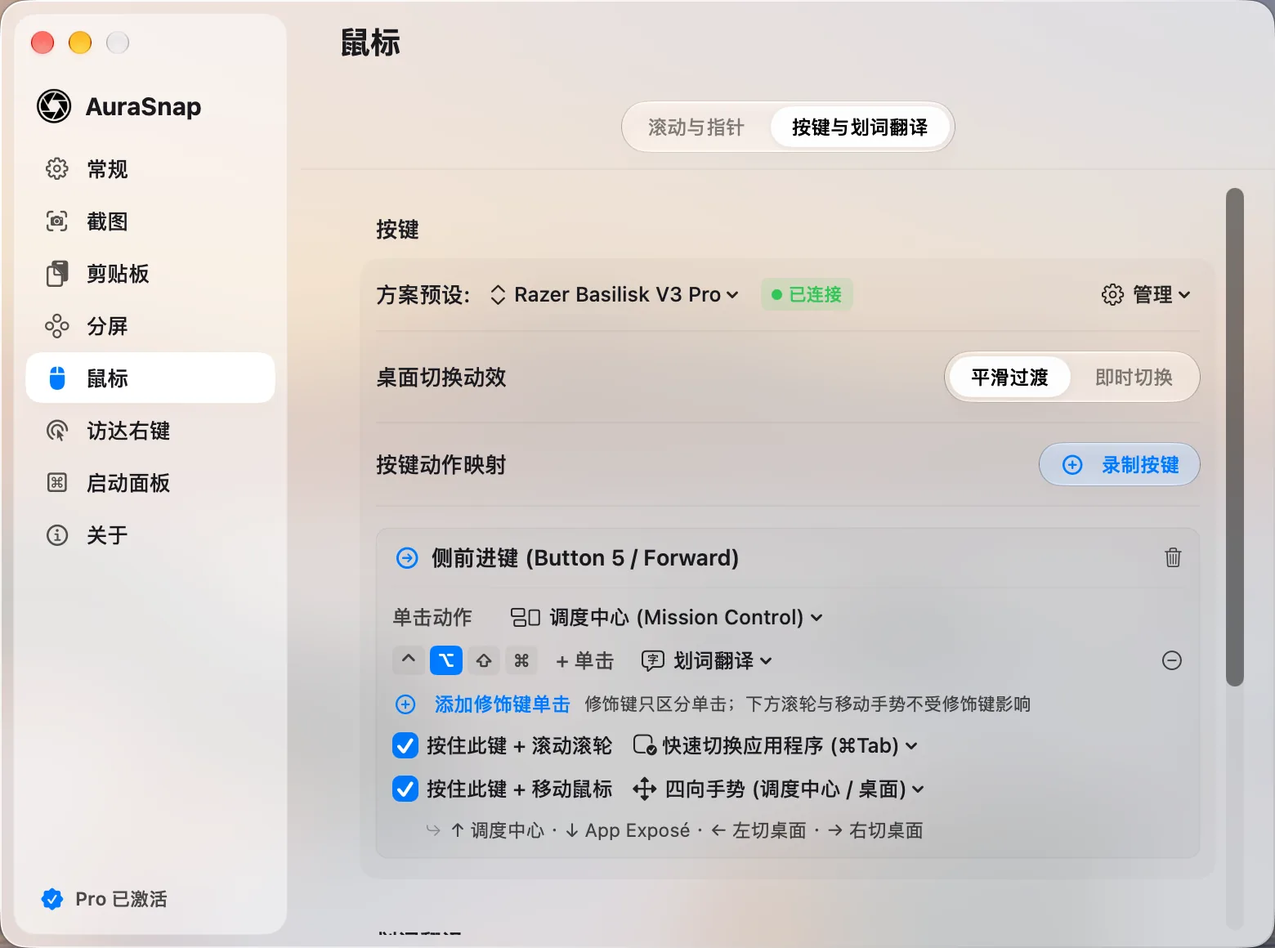
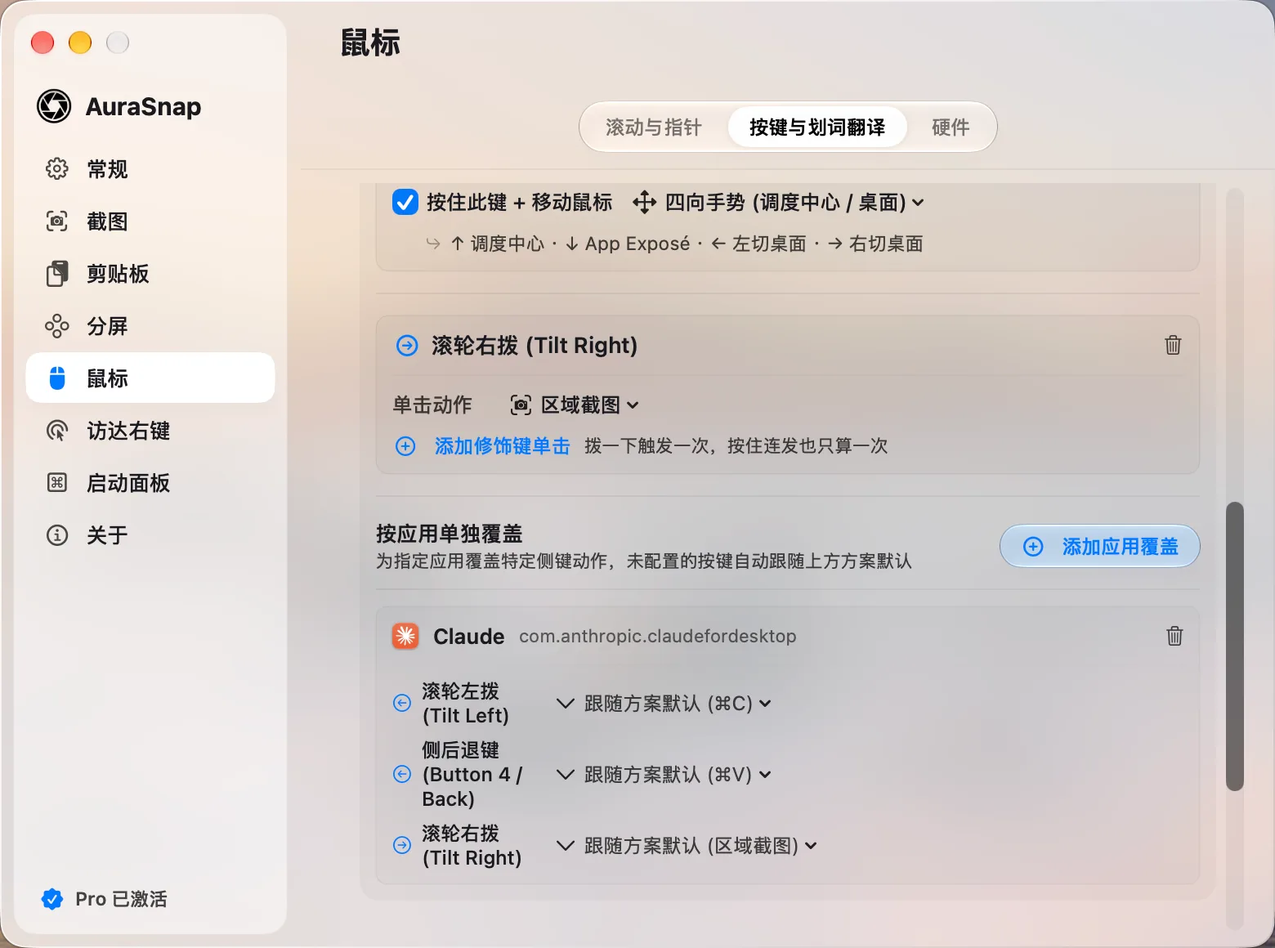
docs(website): 版本号更新到 v3.2.128，补三分屏与跨屏、剪贴板片段与横条面板、鼠标按应用覆盖、像素标尺、录屏运镜与摄像头，新增真实截图

diff --git a/index.html b/index.html
@@ -115,12 +115,12 @@
   <section class="hero">
     <div class="wrap">
       <a class="hero-pill" href="https://github.com/8wcznkmy6b-del/AuraSnap-PB/releases/latest" target="_blank" rel="noopener">
-        <b data-version>v3.2.114</b><span>截图便利贴、双击修饰键快捷键、放大视图拖出截图</span><svg class="i"><use href="/assets/icons.svg#chevron"/></svg>
+        <b data-version>v3.2.128</b><span>三分屏与跨屏移动、剪贴板片段与横条面板、鼠标按应用映射、录屏摄像头</span><svg class="i"><use href="/assets/icons.svg#chevron"/></svg>
       </a>
       <h1 class="title-xl"><span class="nw">截图、剪贴板、分屏</span><br><span class="grad-text nw">一个应用就够了</span></h1>
       <p class="lead">AuraSnap 是为 Mac 编写的原生效率工具：截图标注、文字识别与翻译、长截图、录屏，再加上剪贴板历史、窗口分屏、鼠标增强和访达右键。常驻菜单栏，按快捷键随叫随到。</p>
       <div class="btn-row">
-        <a class="btn btn-primary" href="https://github.com/8wcznkmy6b-del/AuraSnap-PB/releases/download/v3.2.114/AuraSnap-3.2.114.dmg" data-dmg><svg class="i"><use href="/assets/icons.svg#apple"/></svg>免费下载</a>
+        <a class="btn btn-primary" href="https://github.com/8wcznkmy6b-del/AuraSnap-PB/releases/download/v3.2.128/AuraSnap-3.2.128.dmg" data-dmg><svg class="i"><use href="/assets/icons.svg#apple"/></svg>免费下载</a>
         <a class="btn btn-ghost" href="/pricing">查看价格</a>
       </div>
       <div class="hero-meta">
@@ -170,14 +170,15 @@
           <li><svg class="i"><use href="/assets/icons.svg#check"/></svg><span><b>选区更准</b>：空格切换整窗 / 元素，滚轮切层级，方向键逐像素微调。</span></li>
           <li><svg class="i"><use href="/assets/icons.svg#check"/></svg><span><b>工具齐全</b>：矩形、箭头、画笔、文字、马赛克、序号、批注、贴纸、聚光灯、放大镜、水印、智能消除。</span></li>
           <li><svg class="i"><use href="/assets/icons.svg#check"/></svg><span><b>随时修改</b>：单击选中已有标注，拖动移动，滚动滚轮调大小、粗细或倍率；单击选中的批注就能接着改字，长文直接粘贴，文字框自动适应画布。</span></li>
+          <li><svg class="i"><use href="/assets/icons.svg#check"/></svg><span><b>像素标尺</b>：截图时按 <kbd>X</kbd>，光标处向四周扫到颜色边缘，量出横竖距离；按住拖动可量矩形宽高。框选时左上角还会实时显示导出图片的像素宽高。</span></li>
           <li><svg class="i"><use href="/assets/icons.svg#check"/></svg><span><b>工具栏自己排</b>：拖动排序、合并成组，截图和贴图编辑共用一份排列。</span></li>
           <li><svg class="i"><use href="/assets/icons.svg#check"/></svg><span><b>截完怎么用都行</b>：复制、保存、贴在桌面置顶、隔空投送、上传图床，或加上背景再分享；也可以让截图<a href="#sticky">贴成便利贴</a>藏在屏幕边上。</span></li>
         </ul>
-        <div class="chips"><span class="chip">延时截图</span><span class="chip">截图直接复制</span><span class="chip">屏幕取色</span><span class="chip">贴图穿透</span><span class="chip">抠图</span><span class="chip chip-pro">背景美化 · Pro</span><span class="chip chip-pro">一键隐私打码 · Pro</span></div>
+        <div class="chips"><span class="chip">延时截图</span><span class="chip">截图直接复制</span><span class="chip">屏幕取色</span><span class="chip">截图时隐藏桌面图标</span><span class="chip">贴图穿透</span><span class="chip">抠图</span><span class="chip chip-pro">背景美化 · Pro</span><span class="chip chip-pro">一键隐私打码 · Pro</span></div>
       </div>
       <div class="shot-tabs reveal" data-tabs>
-        <div class="tab-row" role="tablist"><button type="button" role="tab" aria-selected="true" data-tab="0">放大镜</button><button type="button" role="tab" aria-selected="false" data-tab="1">样式调节</button><button type="button" role="tab" aria-selected="false" data-tab="2">弯曲箭头</button><button type="button" role="tab" aria-selected="false" data-tab="3">工具分组</button><button type="button" role="tab" aria-selected="false" data-tab="4">截完怎么用</button></div>
-        <figure class="shot" data-panel="0"><img src="/assets/shots/magnifier.webp" alt="放大镜标注：原区域与放大视图之间带连接线，下拉菜单可选形状与放大方式" width="1564" height="1144" loading="lazy" decoding="async"><figcaption>放大镜：拖开放大视图，滚轮调倍率，放大视图还能拖到截图外面，导出时画布自动扩大；可选圆形或圆角矩形、平滑或像素放大。</figcaption></figure><figure class="shot" data-panel="1" hidden><img src="/assets/shots/rect-style.webp" alt="选中矩形后，上方出现颜色、线型、圆角与粗细调节条" width="1292" height="792" loading="lazy" decoding="async"><figcaption>选中任意标注，上方直接出现它的颜色、线型和粗细，改完即生效。</figcaption></figure><figure class="shot" data-panel="2" hidden><img src="/assets/shots/arrow-ai.webp" alt="可拖成弧线的箭头，选中后显示旋转与删除按钮" width="1354" height="792" loading="lazy" decoding="async"><figcaption>箭头拖中间手柄就能弯成弧线；下方是 AI 指令条（Pro，需自备 Key）。</figcaption></figure><figure class="shot" data-panel="3" hidden><img src="/assets/shots/text-group.webp" alt="文本、序号、批注、贴纸、水印合为一组，展开时显示工具名和单键" width="1336" height="816" loading="lazy" decoding="async"><figcaption>多个工具合成一格，悬停右下角小三角就展开，每个工具旁标着单键。</figcaption></figure><figure class="shot" data-panel="4" hidden><img src="/assets/shots/save-group.webp" alt="保存分组展开：保存、上传图床、隔空投送" width="1330" height="778" loading="lazy" decoding="async"><figcaption>保存、上传图床、隔空投送收在一组，⌘S / ⌘U / ⌘D 直接触发。</figcaption></figure>
+        <div class="tab-row" role="tablist"><button type="button" role="tab" aria-selected="true" data-tab="0">放大镜</button><button type="button" role="tab" aria-selected="false" data-tab="1">样式调节</button><button type="button" role="tab" aria-selected="false" data-tab="2">弯曲箭头</button><button type="button" role="tab" aria-selected="false" data-tab="3">工具分组</button><button type="button" role="tab" aria-selected="false" data-tab="4">截完怎么用</button><button type="button" role="tab" aria-selected="false" data-tab="5">像素标尺</button></div>
+        <figure class="shot" data-panel="0"><img src="/assets/shots/magnifier.webp" alt="放大镜标注：原区域与放大视图之间带连接线，下拉菜单可选形状与放大方式" width="1564" height="1144" loading="lazy" decoding="async"><figcaption>放大镜：拖开放大视图，滚轮调倍率，放大视图还能拖到截图外面，导出时画布自动扩大；可选圆形或圆角矩形、平滑或像素放大。</figcaption></figure><figure class="shot" data-panel="1" hidden><img src="/assets/shots/rect-style.webp" alt="选中矩形后，上方出现颜色、线型、圆角与粗细调节条" width="1292" height="792" loading="lazy" decoding="async"><figcaption>选中任意标注，上方直接出现它的颜色、线型和粗细，改完即生效。</figcaption></figure><figure class="shot" data-panel="2" hidden><img src="/assets/shots/arrow-ai.webp" alt="可拖成弧线的箭头，选中后显示旋转与删除按钮" width="1354" height="792" loading="lazy" decoding="async"><figcaption>箭头拖中间手柄就能弯成弧线；下方是 AI 指令条（Pro，需自备 Key）。</figcaption></figure><figure class="shot" data-panel="3" hidden><img src="/assets/shots/text-group.webp" alt="文本、序号、批注、贴纸、水印合为一组，展开时显示工具名和单键" width="1336" height="816" loading="lazy" decoding="async"><figcaption>多个工具合成一格，悬停右下角小三角就展开，每个工具旁标着单键。</figcaption></figure><figure class="shot" data-panel="4" hidden><img src="/assets/shots/save-group.webp" alt="保存分组展开：保存、上传图床、隔空投送" width="1330" height="778" loading="lazy" decoding="async"><figcaption>保存、上传图床、隔空投送收在一组，⌘S / ⌘U / ⌘D 直接触发。</figcaption></figure><figure class="shot" data-panel="5" hidden><img src="/assets/shots/capture-ruler.webp" alt="像素标尺：光标处向四周扫到颜色边缘，横向与竖向两段距离分别标注在各自的线旁" width="1600" height="1061" loading="lazy" decoding="async"><figcaption>截图时按 X：光标处向四周扫到颜色边缘，横、竖两段距离标在各自的线旁；按住拖动可以量矩形的宽高。</figcaption></figure>
       </div>
     </div>
 
@@ -261,10 +262,12 @@
         <p class="lead">选一块区域就开录。点击会有涟漪，按键会显示在角落，观众一眼看懂你在做什么。</p>
         <ul class="bullets">
           <li><svg class="i"><use href="/assets/icons.svg#check"/></svg><span><b>原画 60 帧</b>，按屏幕实际像素采集，可同时录系统声音和麦克风。</span></li>
+          <li><svg class="i"><use href="/assets/icons.svg#check"/></svg><span><b>自动运镜</b>：开启后画面跟着点击和打字自动推近，像 Screen Studio 一样；录完可在编辑器里拖框改取景、调强度。</span></li>
+          <li><svg class="i"><use href="/assets/icons.svg#check"/></svg><span><b>摄像头画中画</b>：可叠加圆形或圆角矩形的摄像头画面，大小三档、可拖动，只在录屏期间开着。</span></li>
           <li><svg class="i"><use href="/assets/icons.svg#check"/></svg><span><b>录完就剪</b>：预览里拖动首尾剪掉多余片段，导出 MP4、WebM 或 GIF。</span></li>
           <li><svg class="i"><use href="/assets/icons.svg#check"/></svg><span><b>直接发出去</b>：复制后能粘贴到微信、访达；也可以按住 ⌘ 把视频拖进任意窗口。</span></li>
         </ul>
-        <div class="chips"><span class="chip">免费版单次 15 秒 · GIF</span><span class="chip chip-pro">不限时长 · MP4 / WebM · Pro</span></div>
+        <div class="chips"><span class="chip">免费版单次 15 秒 · GIF</span><span class="chip chip-pro">不限时长 · MP4 / WebM · Pro</span><span class="chip chip-pro">导出运镜效果 · Pro</span></div>
       </div>
       <div class="stack reveal">
         <figure class="shot"><img src="/assets/shots/record-start.webp" alt="录屏开始前的控制条：系统声音、麦克风、点击效果、按键显示与开始录制" width="894" height="638" loading="lazy" decoding="async"></figure>
@@ -305,14 +308,18 @@
         <ul class="bullets">
           <li><svg class="i"><use href="/assets/icons.svg#check"/></svg><span><b>打字就搜</b>：截图里的文字也能搜到；按文本、图片、链接、颜色、文件分类，按来源应用筛选，还能加自己的标签。</span></li>
           <li><svg class="i"><use href="/assets/icons.svg#check"/></svg><span><b>文件也记得</b>：在访达里复制的文件只记位置，粘贴时放回原文件，也能直接粘贴路径。</span></li>
+          <li><svg class="i"><use href="/assets/icons.svg#check"/></svg><span><b>多选与逐条粘贴</b>：<kbd>⌘</kbd> 点击、<kbd>⇧</kbd> 点击多选，<kbd>↩</kbd> 按顺序逐条粘贴，<kbd>⇧</kbd><kbd>↩</kbd> 合并成一段；<kbd>⌘</kbd><kbd>1</kbd>–<kbd>9</kbd> 直接贴第几条。</span></li>
+          <li><svg class="i"><use href="/assets/icons.svg#check"/></svg><span><b>常用片段与「粘贴为…」</b>：存下常用话术，支持 {date}、{time} 占位符；右键可转大小写、JSON 格式化、URL / Base64 编解码后再粘贴。</span></li>
           <li><svg class="i"><use href="/assets/icons.svg#check"/></svg><span><b>悬停预览</b>：大图和长文本悬停即看，可以划选其中一段复制；任意条目一键变成桌面贴图。</span></li>
           <li><svg class="i"><use href="/assets/icons.svg#check"/></svg><span><b>不记敏感内容</b>：密码管理器等应用里复制的内容不记录，也可以自己指定忽略的应用。</span></li>
         </ul>
-        <div class="chips"><span class="chip">永久免费</span><span class="chip">数据只存在本机</span></div>
+        <div class="chips"><span class="chip">永久免费</span><span class="chip">数据只存在本机</span><span class="chip">屏幕底部 / 顶部横条面板</span></div>
       </div>
       <div class="reveal">
-        <figure class="shot"><img src="/assets/shots/clipboard-panel.webp" alt="剪贴板面板：顶部搜索与分类，左侧历史列表，右侧大图预览与识别文字按钮" width="1418" height="932" loading="lazy" decoding="async"></figure>
-        <p class="shot-cap">左边是历史，右边是悬停预览；图片可以直接「识别文字」。底部提示 ↩ 粘贴、↑↓ 选择、tab 切换分类。</p>
+        <div class="shot-tabs" data-tabs>
+          <div class="tab-row" role="tablist"><button type="button" role="tab" aria-selected="true" data-tab="0">卡片浮窗</button><button type="button" role="tab" aria-selected="false" data-tab="1">底部横条</button></div>
+          <figure class="shot" data-panel="0"><img src="/assets/shots/clipboard-panel.webp" alt="剪贴板面板：顶部搜索与分类，左侧历史列表，右侧大图预览与识别文字按钮" width="1418" height="932" loading="lazy" decoding="async"><figcaption>左边是历史，右边是悬停预览；图片可以直接「识别文字」。底部提示 ↩ 粘贴、↑↓ 选择、tab 切换分类。</figcaption></figure><figure class="shot" data-panel="1" hidden><img src="/assets/shots/clipboard-shelf.webp" alt="剪贴板底部横条面板：顶部搜索框、分类与标签，下方记录横排成卡片，多选的卡片带粘贴序号" width="1600" height="681" loading="lazy" decoding="async"><figcaption>设置里把面板布局改成屏幕底部或顶部横条：分类、片段与自定义标签平铺在顶部，记录横排成卡片；多选后卡片上的数字就是粘贴顺序。</figcaption></figure>
+        </div>
       </div>
     </div>
   </section>
@@ -326,6 +333,7 @@
         <p class="lead">按住鼠标中键或侧键往一个方向划，轮盘出现，松手窗口就吸附过去。习惯键盘的话，快捷键同样顺手。</p>
         <ul class="bullets">
           <li><svg class="i"><use href="/assets/icons.svg#check"/></svg><span><kbd>⌃</kbd><kbd>⌥</kbd> 加方向键吸附半屏，<kbd>↩</kbd> 最大化，<kbd>C</kbd> 居中，<kbd>⌫</kbd> 还原。</span></li>
+          <li><svg class="i"><use href="/assets/icons.svg#check"/></svg><span><b>三分屏与跨屏</b>：左 / 中 / 右 1/3、左 / 右 2/3（竖屏自动改上 / 中 / 下），还能一键把窗口移到下一块或上一块屏幕，并保持同样的位置；在「设置 › 分屏 › 快捷键」里录制按键。</span></li>
           <li><svg class="i"><use href="/assets/icons.svg#check"/></svg><span><b>多窗口联动</b>：一个窗口吸到一侧，同屏的其他窗口自动排好，填满剩下的空间（Pro）。</span></li>
           <li><svg class="i"><use href="/assets/icons.svg#check"/></svg><span><b>多屏与台前调度</b>：跨屏移动窗口，自动避开台前调度侧栏；窗口间距可调。</span></li>
         </ul>
@@ -374,6 +382,7 @@
       </div>
       <div class="spot-grid two">
         <div class="spot reveal"><svg class="i"><use href="/assets/icons.svg#mouse"/></svg><h3>鼠标增强</h3><p>普通滚轮像触控板一样顺滑，可反转方向、关闭指针加速。不同鼠标各存一套配置，插上自动切换；雷蛇和 MCHOSE 鼠标还能直接改 DPI 档位、轮询率和灯光，写进鼠标里。Pro 能把侧键、滚轮左右拨绑定到快捷键、截图、分屏或调度中心。</p></div>
+        <div class="spot reveal"><svg class="i"><use href="/assets/icons.svg#mouse"/></svg><h3>按应用设置鼠标</h3><p>每套方案可以给指定应用单独覆盖部分按键，切到该应用自动生效。设置按键时会就地检查冲突：和分屏触发键、全局快捷键或常见系统快捷键撞了会提示。指针加速度可选系统默认、线性或自定义曲线。</p></div>
         <div class="spot reveal"><svg class="i"><use href="/assets/icons.svg#cloud"/></svg><h3>图床上传</h3><p>支持 S3、R2、MinIO、阿里云 OSS、腾讯云 COS、七牛、B2、GitHub 和自定义接口。上传前可转 WebP，上传后自动复制 Markdown、URL 或 HTML 外链。</p></div>
         <div class="spot reveal"><svg class="i"><use href="/assets/icons.svg#eraser"/></svg><h3>智能消除与抠图</h3><p>抹掉画面里多余的东西，背景自动补齐；一键提取主体，去掉背景。</p></div>
         <div class="spot reveal"><svg class="i"><use href="/assets/icons.svg#eyedropper"/></svg><h3>屏幕取色</h3><p>截图时放大镜显示像素和色值，按 <kbd>C</kbd> 复制 HEX 或 RGB。</p></div>
@@ -391,7 +400,7 @@
       </div>
       <div class="shot-tabs reveal wide" data-tabs>
         <div class="tab-row" role="tablist"><button type="button" role="tab" aria-selected="true" data-tab="0">工具栏主题</button><button type="button" role="tab" aria-selected="false" data-tab="1">工具排列</button><button type="button" role="tab" aria-selected="false" data-tab="2">快捷键</button><button type="button" role="tab" aria-selected="false" data-tab="3">剪贴板</button><button type="button" role="tab" aria-selected="false" data-tab="4">分类与标签</button><button type="button" role="tab" aria-selected="false" data-tab="5">分屏轮盘</button><button type="button" role="tab" aria-selected="false" data-tab="6">分屏快捷键</button><button type="button" role="tab" aria-selected="false" data-tab="7">鼠标滚动</button><button type="button" role="tab" aria-selected="false" data-tab="8">鼠标按键</button><button type="button" role="tab" aria-selected="false" data-tab="9">访达右键</button><button type="button" role="tab" aria-selected="false" data-tab="10">外观</button><button type="button" role="tab" aria-selected="false" data-tab="11">运行状态</button><button type="button" role="tab" aria-selected="false" data-tab="12">常规</button><button type="button" role="tab" aria-selected="false" data-tab="13">翻译</button><button type="button" role="tab" aria-selected="false" data-tab="14">AI 助手</button><button type="button" role="tab" aria-selected="false" data-tab="15">图床</button></div>
-        <figure class="shot" data-panel="0"><img src="/assets/shots/set-toolbar-theme.webp" alt="设置：截图工具栏主题（黑曜晶透、磨砂玻璃、经典纯色）与图标大小" width="1560" height="1160" loading="lazy" decoding="async"><figcaption>三种工具栏主题，图标大小可调，分组展开时可显示工具名称。</figcaption></figure><figure class="shot" data-panel="1" hidden><img src="/assets/shots/set-toolbar-arrange.webp" alt="设置：工具排列，顶部预览可拖动排序与分组" width="1560" height="1160" loading="lazy" decoding="async"><figcaption>顶部预览直接拖动排序、合并分组；截图和贴图编辑共用一份排列。</figcaption></figure><figure class="shot" data-panel="2" hidden><img src="/assets/shots/set-shortcuts.webp" alt="设置：全局快捷键与标注单键" width="1560" height="1160" loading="lazy" decoding="async"><figcaption>全局快捷键与标注单键都在这里，支持单个按键（如 F1–F12），也可以设成连按两下 ⌘、⌥ 这类修饰键。</figcaption></figure><figure class="shot" data-panel="3" hidden><img src="/assets/shots/set-clipboard.webp" alt="设置：剪贴板通用选项" width="1560" height="1160" loading="lazy" decoding="async"><figcaption>回贴方式、使用过的记录移到最前、记录复制的文件、图片文字识别。</figcaption></figure><figure class="shot" data-panel="4" hidden><img src="/assets/shots/set-clipboard-tabs.webp" alt="设置：剪贴板分类栏排序与自定义标签" width="1560" height="1160" loading="lazy" decoding="async"><figcaption>分类栏可调顺序、改名、隐藏，⌘1–9 快速切换。</figcaption></figure><figure class="shot" data-panel="5" hidden><img src="/assets/shots/set-wheel.webp" alt="设置：分屏轮盘外观、材质与底色" width="1560" height="1160" loading="lazy" decoding="async"><figcaption>轮盘样式、液态玻璃材质、底色与透明度。</figcaption></figure><figure class="shot" data-panel="6" hidden><img src="/assets/shots/set-window-keys.webp" alt="设置：分屏快捷键，半屏、四角与还原" width="1560" height="1160" loading="lazy" decoding="async"><figcaption>半屏、四角 1/4 屏、居中、还原，按键都能改。</figcaption></figure><figure class="shot" data-panel="7" hidden><img src="/assets/shots/set-mouse-scroll.webp" alt="设置：鼠标平滑滚动、速度与修饰键滚动" width="1560" height="1160" loading="lazy" decoding="async"><figcaption>平滑度、滚动速度、修饰键横向滚动 / 缩放 / 变速，指定应用保持原生滚动。</figcaption></figure><figure class="shot" data-panel="8" hidden><img src="/assets/shots/set-mouse-buttons.webp" alt="设置：鼠标按键映射方案，按设备自动切换" width="1560" height="1160" loading="lazy" decoding="async"><figcaption>按鼠标型号保存方案；侧键单击、按住滚轮、按住移动各自绑定动作（Pro）。</figcaption></figure><figure class="shot" data-panel="9" hidden><img src="/assets/shots/set-finder.webp" alt="设置：访达右键功能模块开关" width="1560" height="1160" loading="lazy" decoding="async"><figcaption>右键菜单里每一项都能单独开关。</figcaption></figure><figure class="shot" data-panel="10" hidden><img src="/assets/shots/set-appearance.webp" alt="设置：设置面板主题与识别结果窗口主题" width="1560" height="1160" loading="lazy" decoding="async"><figcaption>设置面板有液态玻璃与经典纯色、深浅两种配色。</figcaption></figure><figure class="shot" data-panel="11" hidden><img src="/assets/shots/set-performance.webp" alt="设置：应用资源占用与模块运行状态" width="1560" height="1160" loading="lazy" decoding="async"><figcaption>实时查看 CPU、内存占用和各模块运行状态，用不到的模块可以停掉。</figcaption></figure><figure class="shot" data-panel="12" hidden><img src="/assets/shots/set-general.webp" alt="设置：常规，语言、开机自启、截图格式与保存路径（路径已打码）" width="1560" height="1160" loading="lazy" decoding="async"><figcaption>语言、开机自启、截图格式、保存与复制时附带窗口阴影、默认保存位置。</figcaption></figure><figure class="shot" data-panel="13" hidden><img src="/assets/shots/set-translate.webp" alt="设置：截图翻译模式与服务商（App ID 与密钥已打码）" width="1560" height="1160" loading="lazy" decoding="async"><figcaption>系统翻译与自定义 Key 两种模式；自备 Key 时选服务商并测试连接。</figcaption></figure><figure class="shot" data-panel="14" hidden><img src="/assets/shots/set-ai.webp" alt="设置：AI 助手服务商与 API 配置（密钥与地址已打码）" width="1560" height="1160" loading="lazy" decoding="async"><figcaption>AI 助手可接 OpenAI 兼容接口或本地 Ollama，自备 Key 即可免费使用。</figcaption></figure><figure class="shot" data-panel="15" hidden><img src="/assets/shots/set-imagehost.webp" alt="设置：图床服务商、链接格式与命名规则（账号已打码）" width="1560" height="1160" loading="lazy" decoding="async"><figcaption>选择存储服务、链接格式、命名规则与上传格式，可设为截图后自动上传。</figcaption></figure>
+        <figure class="shot" data-panel="0"><img src="/assets/shots/set-toolbar-theme.webp" alt="设置：截图工具栏主题（黑曜晶透、磨砂玻璃、经典纯色）与图标大小" width="1560" height="1160" loading="lazy" decoding="async"><figcaption>三种工具栏主题，图标大小可调，分组展开时可显示工具名称。</figcaption></figure><figure class="shot" data-panel="1" hidden><img src="/assets/shots/set-toolbar-arrange.webp" alt="设置：工具排列，顶部预览可拖动排序与分组" width="1560" height="1160" loading="lazy" decoding="async"><figcaption>顶部预览直接拖动排序、合并分组；截图和贴图编辑共用一份排列。</figcaption></figure><figure class="shot" data-panel="2" hidden><img src="/assets/shots/set-shortcuts.webp" alt="设置：全局快捷键与标注单键" width="1560" height="1160" loading="lazy" decoding="async"><figcaption>全局快捷键与标注单键都在这里，支持单个按键（如 F1–F12），也可以设成连按两下 ⌘、⌥ 这类修饰键。</figcaption></figure><figure class="shot" data-panel="3" hidden><img src="/assets/shots/set-clipboard.webp" alt="设置：剪贴板通用选项" width="1560" height="1160" loading="lazy" decoding="async"><figcaption>回贴方式、使用过的记录移到最前、记录复制的文件、图片文字识别。</figcaption></figure><figure class="shot" data-panel="4" hidden><img src="/assets/shots/set-clipboard-tabs.webp" alt="设置：剪贴板分类栏排序与自定义标签" width="1560" height="1160" loading="lazy" decoding="async"><figcaption>分类栏可调顺序、改名、隐藏，⌘1–9 快速切换。</figcaption></figure><figure class="shot" data-panel="5" hidden><img src="/assets/shots/set-wheel.webp" alt="设置：分屏轮盘外观、材质与底色" width="1560" height="1160" loading="lazy" decoding="async"><figcaption>轮盘样式、液态玻璃材质、底色与透明度。</figcaption></figure><figure class="shot" data-panel="6" hidden><img src="/assets/shots/set-window-keys.webp" alt="设置：分屏快捷键，三分屏与移到另一块屏幕，下方是手势速查" width="1560" height="1160" loading="lazy" decoding="async"><figcaption>左 / 中 / 右 1/3、左 / 右 2/3，以及移到上一块 / 下一块屏幕，按键自己录；半屏、四角、居中、还原也都能改。</figcaption></figure><figure class="shot" data-panel="7" hidden><img src="/assets/shots/set-mouse-scroll.webp" alt="设置：鼠标平滑滚动、速度与修饰键滚动" width="1560" height="1160" loading="lazy" decoding="async"><figcaption>平滑度、滚动速度、修饰键横向滚动 / 缩放 / 变速，指定应用保持原生滚动。</figcaption></figure><figure class="shot" data-panel="8" hidden><img src="/assets/shots/set-mouse-buttons.webp" alt="设置：鼠标按键映射，下方可以为指定应用单独覆盖按键" width="1560" height="1160" loading="lazy" decoding="async"><figcaption>按鼠标型号保存方案；侧键、滚轮左右拨、按住移动各自绑定动作，还能给指定应用单独覆盖，未覆盖的跟随方案默认（Pro）。</figcaption></figure><figure class="shot" data-panel="9" hidden><img src="/assets/shots/set-finder.webp" alt="设置：访达右键功能模块开关" width="1560" height="1160" loading="lazy" decoding="async"><figcaption>右键菜单里每一项都能单独开关。</figcaption></figure><figure class="shot" data-panel="10" hidden><img src="/assets/shots/set-appearance.webp" alt="设置：设置面板主题与识别结果窗口主题" width="1560" height="1160" loading="lazy" decoding="async"><figcaption>设置面板有液态玻璃与经典纯色、深浅两种配色。</figcaption></figure><figure class="shot" data-panel="11" hidden><img src="/assets/shots/set-performance.webp" alt="设置：应用资源占用与模块运行状态" width="1560" height="1160" loading="lazy" decoding="async"><figcaption>实时查看 CPU、内存占用和各模块运行状态，用不到的模块可以停掉。</figcaption></figure><figure class="shot" data-panel="12" hidden><img src="/assets/shots/set-general.webp" alt="设置：常规，语言、开机自启、截图格式与保存路径（路径已打码）" width="1560" height="1160" loading="lazy" decoding="async"><figcaption>语言、开机自启、截图格式、保存与复制时附带窗口阴影、默认保存位置。</figcaption></figure><figure class="shot" data-panel="13" hidden><img src="/assets/shots/set-translate.webp" alt="设置：截图翻译模式与服务商（App ID 与密钥已打码）" width="1560" height="1160" loading="lazy" decoding="async"><figcaption>系统翻译与自定义 Key 两种模式；自备 Key 时选服务商并测试连接。</figcaption></figure><figure class="shot" data-panel="14" hidden><img src="/assets/shots/set-ai.webp" alt="设置：AI 助手服务商与 API 配置（密钥与地址已打码）" width="1560" height="1160" loading="lazy" decoding="async"><figcaption>AI 助手可接 OpenAI 兼容接口或本地 Ollama，自备 Key 即可免费使用。</figcaption></figure><figure class="shot" data-panel="15" hidden><img src="/assets/shots/set-imagehost.webp" alt="设置：图床服务商、链接格式与命名规则（账号已打码）" width="1560" height="1160" loading="lazy" decoding="async"><figcaption>选择存储服务、链接格式、命名规则与上传格式，可设为截图后自动上传。</figcaption></figure>
       </div>
     </div>
   </section>
@@ -475,7 +484,7 @@
         <h2 class="title-lg">现在就试试 AuraSnap</h2>
         <p class="lead">免费下载，不用注册账号。</p>
         <div class="btn-row">
-          <a class="btn btn-primary" href="https://github.com/8wcznkmy6b-del/AuraSnap-PB/releases/download/v3.2.114/AuraSnap-3.2.114.dmg" data-dmg><svg class="i"><use href="/assets/icons.svg#apple"/></svg>下载 <span data-version>v3.2.114</span></a>
+          <a class="btn btn-primary" href="https://github.com/8wcznkmy6b-del/AuraSnap-PB/releases/download/v3.2.128/AuraSnap-3.2.128.dmg" data-dmg><svg class="i"><use href="/assets/icons.svg#apple"/></svg>下载 <span data-version>v3.2.128</span></a>
           <a class="btn btn-ghost" href="https://github.com/8wcznkmy6b-del/AuraSnap-PB/releases" target="_blank" rel="noopener"><svg class="i"><use href="/assets/icons.svg#github"/></svg>所有版本</a>
         </div>
         <p class="small" style="margin-top:16px;">需要 macOS 14 或更高版本、Apple 芯片（M1 及以后）</p>

diff --git a/guide.html b/guide.html
@@ -36,7 +36,7 @@
 
 <main class="wrap">
   <div class="doc-hero">
-    <span class="eyebrow">使用指南 · 适用于 <span data-version>v3.2.114</span></span>
+    <span class="eyebrow">使用指南 · 适用于 <span data-version>v3.2.128</span></span>
     <h1 class="title-lg" style="margin-top:12px;">AuraSnap 使用指南</h1>
     <p class="lead">每个模块怎么用、默认快捷键是什么、遇到问题怎么办。应用内「设置 › 关于 › 功能指南」也能随时查看，那里的快捷键会按你改过的设置显示。</p>
   </div>
@@ -89,6 +89,7 @@
           <li>鼠标悬停会自动吸附窗口和界面元素，单击即选中；也可以直接拖出任意区域。</li>
           <li><kbd>空格</kbd> 在整个窗口和单个元素之间切换，滚动滚轮切换层级，方向键逐像素微调选区。</li>
           <li><kbd>⌥</kbd> <kbd>⇧</kbd> <kbd>1</kbd> 截图并直接复制，松手就进剪贴板，跳过标注。</li>
+          <li>框选和调整时，选区左上角显示导出图片的像素宽高。按 <kbd>X</kbd> 打开像素标尺：光标处向四周扫到颜色边缘，横竖距离标在各自的线旁；按住拖动量矩形宽高，<kbd>↑</kbd> <kbd>↓</kbd> 调边缘灵敏度，单位为 pt。快捷键可在设置里改。</li>
           <li><kbd>⌃</kbd> <kbd>⌥</kbd> <kbd>1</kbd> 延时截图：先框好范围，3 / 5 / 10 秒倒计时后自动截取，适合截菜单和悬停提示。</li>
         </ul>
         <h3>标注工具</h3>
@@ -207,7 +208,10 @@
         <p class="sec-sub">按 <kbd>⌥</kbd> <kbd>6</kbd>，或截图时框好区域后按 <kbd>G</kbd>。</p>
         <ul>
           <li>开始前可以调整范围。录制为原画 60 帧，按屏幕实际像素采集。</li>
-          <li>控制条上可开关系统声音、麦克风、点击效果与按键显示，可暂停。</li>
+          <li>控制条上可开关系统声音、麦克风、点击效果与按键显示，可暂停；点「开始录制」后的 3 秒倒计时里可以点「立即开始」。</li>
+          <li><strong>自动运镜</strong>：录制前选项里开启后，画面不带系统光标，按点击和打字自动推近。录完在编辑器里拖取景框、改放大倍数，或在播放头处「在此处放大」。免费版可以录制并在预览里查看，导出带运镜的文件需要 Pro。</li>
+          <li><strong>摄像头</strong>（默认关）：在录屏设置或控制条里开启，圆形或圆角矩形，三档大小，可拖动并记住位置、可选设备与镜像，只在录屏期间显示。首次使用需要授予摄像头权限。</li>
+          <li>「设置 › 截图」里可以开启截图和录屏时隐藏桌面图标，只在取图时排除，不改变访达和系统设置。</li>
           <li>结束后在预览里拖动首尾剪辑，选择 MP4、WebM 或 GIF 导出；用控制条上的复制、保存按钮，或按住 <kbd>⌘</kbd> 把视频拖到其他窗口。</li>
           <li>复制后可以直接粘贴到微信、访达，关闭预览后文件仍在。</li>
           <li>未保存就关闭时会提示一次，再关闭一次即确认。</li>
@@ -221,7 +225,12 @@
         <p class="sec-sub">按 <kbd>⌥</kbd> <kbd>3</kbd> 在光标旁呼出。</p>
         <ul>
           <li>面板不抢原应用的焦点，输入光标继续闪烁。直接打字筛选，截图里的文字也能搜到。</li>
-          <li>选中后按 <kbd>↩</kbd> 自动粘贴回原应用，也可以改成单击或双击粘贴。</li>
+          <li>选中后按 <kbd>↩</kbd> 自动粘贴回原应用，也可以改成单击或双击粘贴。<kbd>⌘</kbd> <kbd>1</kbd>–<kbd>9</kbd> 直接粘贴当前显示的第 1–9 条（<kbd>⌘</kbd> <kbd>0</kbd> 为第 10 条），修饰键可在「设置 › 剪贴板 › 快捷键」里改。</li>
+          <li><strong>多选</strong>：<kbd>⌘</kbd> 点击增减、<kbd>⇧</kbd> 点击选区间、<kbd>⌘</kbd> <kbd>A</kbd> 全选；已选的记录显示粘贴顺序。<kbd>↩</kbd> 逐条粘贴（条目之间只补一个换行，不会模拟回车），<kbd>⇧</kbd> <kbd>↩</kbd> 合并成一段文本一次粘贴。</li>
+          <li><strong>粘贴为…</strong>：右键单条或多选，可转成纯文本、大小写、去首尾空白、合并为一行、删除多余空行、JSON 格式化 / 压缩、URL 与 Base64 编解码，只影响这一次粘贴。</li>
+          <li><strong>常用片段</strong>：分类栏里的「片段」，支持标题、关键词与 {date}、{time}、{clipboard} 占位符；在设置里增删改排序，历史记录右键「存为片段」即可。</li>
+          <li><strong>横条面板</strong>：「设置 › 剪贴板 › 外观样式 › 面板布局」可选屏幕底部或顶部横条，记录横排成卡片，操作与卡片浮窗一致。</li>
+          <li><strong>鼠标移出自动隐藏</strong>：默认开启（1 秒），鼠标进入过面板后才开始计时，可在设置里调整或关闭。</li>
           <li>顶部分类：全部、文本、图片、链接、颜色、文件、标签；可以按来源应用筛选，给条目加自定义标签，重要条目可以置顶。</li>
           <li>在访达里复制的文件只记录位置，粘贴时放回原文件；<kbd>⌥</kbd> <kbd>↩</kbd> 粘贴文件路径。</li>
           <li>悬停条目预览大图和长文本，可以划选其中一段复制。</li>
@@ -247,6 +256,8 @@
           </tbody>
         </table>
         <p>四个角（1/4 屏）、接近最大化等布局在「设置 › 快捷键」里，可以自己分配按键。跨屏移动时会避开台前调度侧栏。</p>
+        <h3>三分屏与跨屏移动</h3>
+        <p>左 / 中 / 右 1/3、左 / 右 2/3，竖屏自动改为上 / 中 / 下，沿用窗口间隙。「移到下一块屏幕」「移到上一块屏幕」按从左到右、从上到下的顺序切换：处在分屏位置的窗口到新屏幕套用同一位置，自由窗口按比例换算。原生全屏窗口不处理，只有一块屏时不动。这 7 个动作默认不分配按键，在「设置 › 分屏 › 快捷键 › 三分屏与移到另一块屏幕」里录制。</p>
         <h3>高级功能（Pro）</h3>
         <ul>
           <li><strong>多窗口联动分屏</strong>：一个窗口吸附到一侧后，同屏的其他窗口自动排好、补满剩余空间。更新到 v3.2.109 之前就已在用的用户继续可用。</li>
@@ -259,8 +270,10 @@
         <ul>
           <li><strong>平滑滚动</strong>：让普通滚轮像触控板一样顺滑，平滑度可调；可单独反转鼠标滚轮方向，不影响触控板。</li>
           <li><strong>滚轮修饰键</strong>：按住修饰键滚动可以横向滚动、缩放、加速或慢速微调。</li>
-          <li><strong>线性指针</strong>：关闭系统指针加速，移动 1:1 跟手。</li>
+          <li><strong>指针加速度</strong>：可选系统默认、线性（1:1 跟手）或自定义曲线（基础灵敏度、加速度、最大倍率，带预览图）。曲线写进外接鼠标的系统指针参数，切回默认、关闭模块或退出时自动清除。</li>
           <li><strong>按设备配置</strong>：不同鼠标各存一套配置，插上自动切换；指定的应用保持系统原生滚动。</li>
+          <li><strong>按应用覆盖</strong>：每套方案可以给指定应用单独覆盖部分按键（粒度为按键加修饰键），未覆盖的跟随方案默认；切换前台应用时自动生效。</li>
+          <li><strong>冲突检测</strong>：分屏触发键与按键映射争用同一按键、重复的按键组合会报错；合成的快捷键与 AuraSnap 全局快捷键或常见系统快捷键相同会提醒，分配时就地提示。</li>
           <li><strong>按键映射（Pro）</strong>：录制中键、侧键或滚轮左右拨，绑定快捷键、截图、分屏、调度中心等动作；单击、滚轮、拖动手势和修饰键组合可以分别设置。一套方案可以绑定多只鼠标。</li>
           <li><strong>硬件设置</strong>：接上支持的雷蛇或 MCHOSE 鼠标时，鼠标设置里多出「硬件」分页，可以改 DPI 档位、轮询率和灯光（含逐灯颜色），设置写进鼠标里，换电脑也生效。装着官方驱动并在运行时会自动让出。</li>
         </ul>

diff --git a/assets/site.js b/assets/site.js
@@ -5,8 +5,8 @@
 
   // 默认值随网站发布更新；页面打开后再从 GitHub 取最新发行版，取不到就用这里的
   var FALLBACK = {
-    version: '3.2.114',
-    dmg: 'https://github.com/8wcznkmy6b-del/AuraSnap-PB/releases/download/v3.2.114/AuraSnap-3.2.114.dmg'
+    version: '3.2.128',
+    dmg: 'https://github.com/8wcznkmy6b-del/AuraSnap-PB/releases/download/v3.2.128/AuraSnap-3.2.128.dmg'
   };
   var RELEASE_API = 'https://api.github.com/repos/8wcznkmy6b-del/AuraSnap-PB/releases/latest';
   var CACHE_KEY = 'aurasnap_latest_release_v1';
